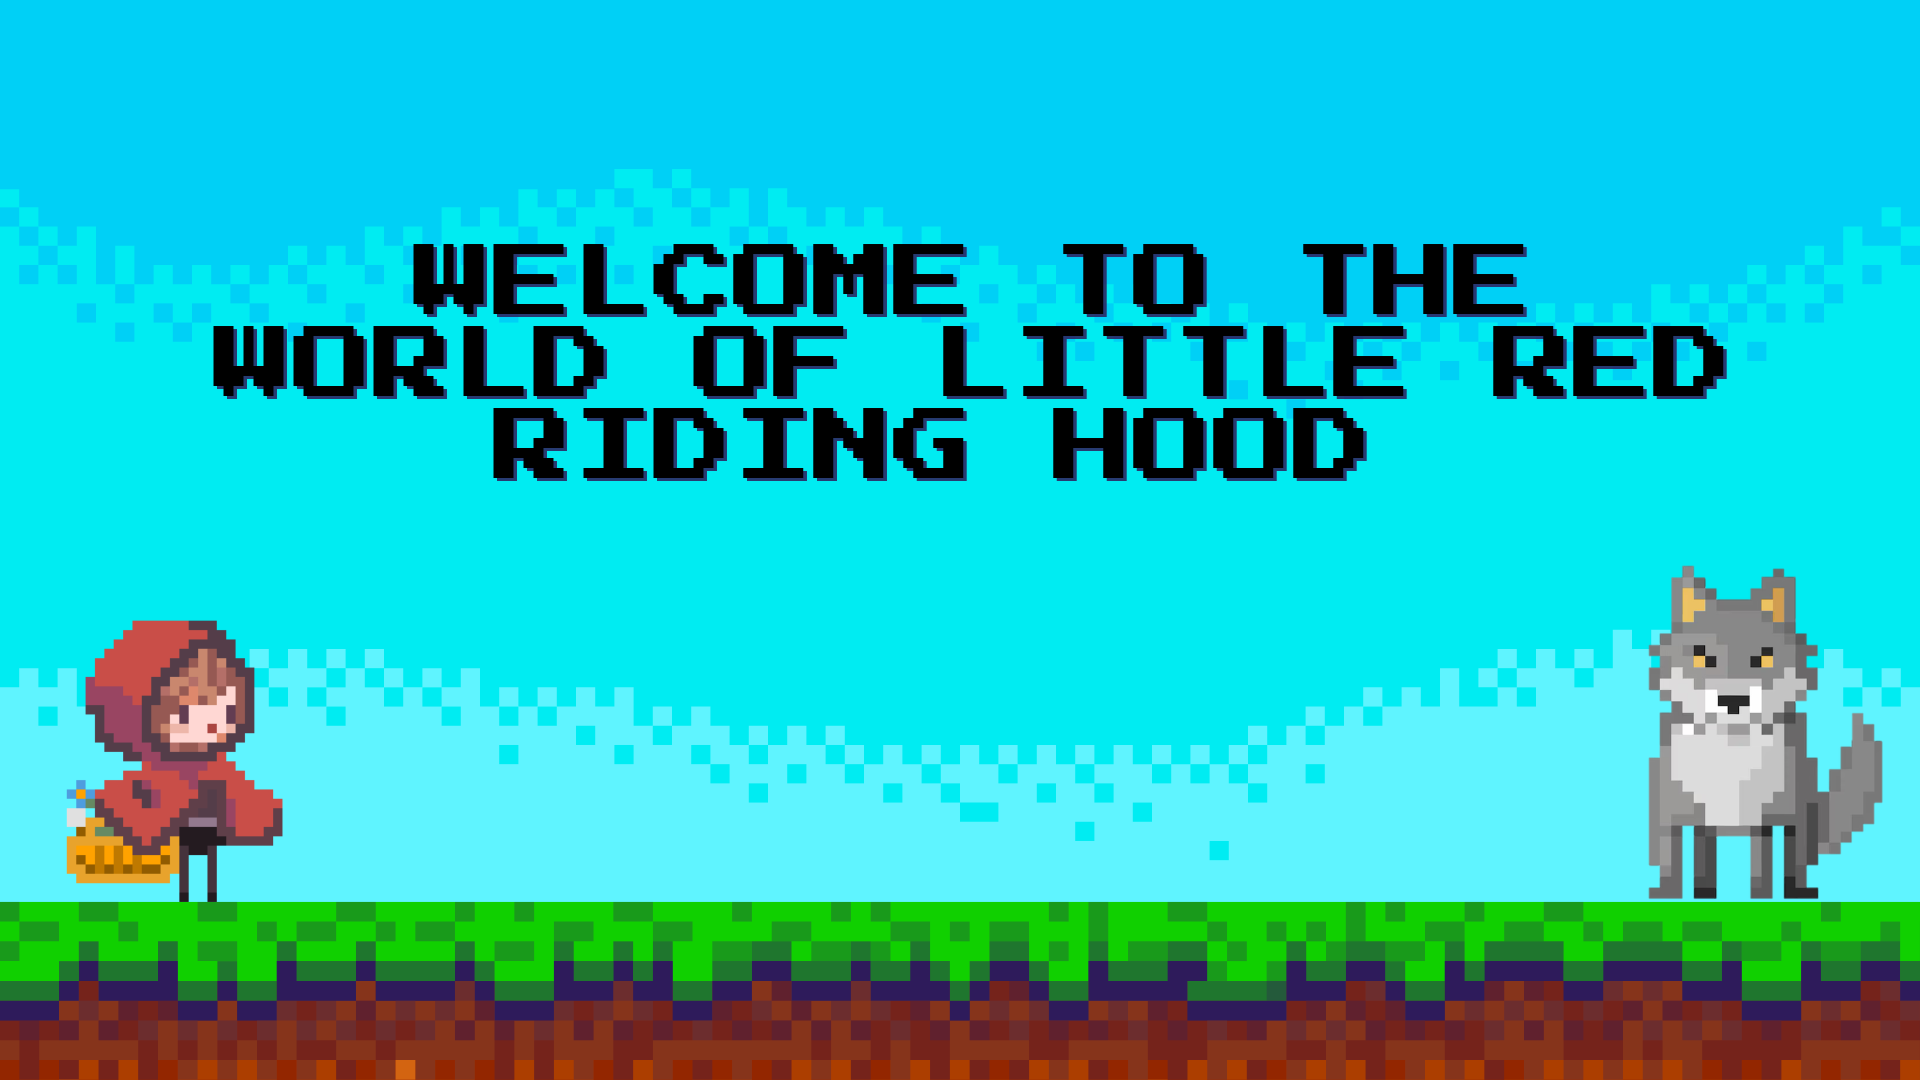
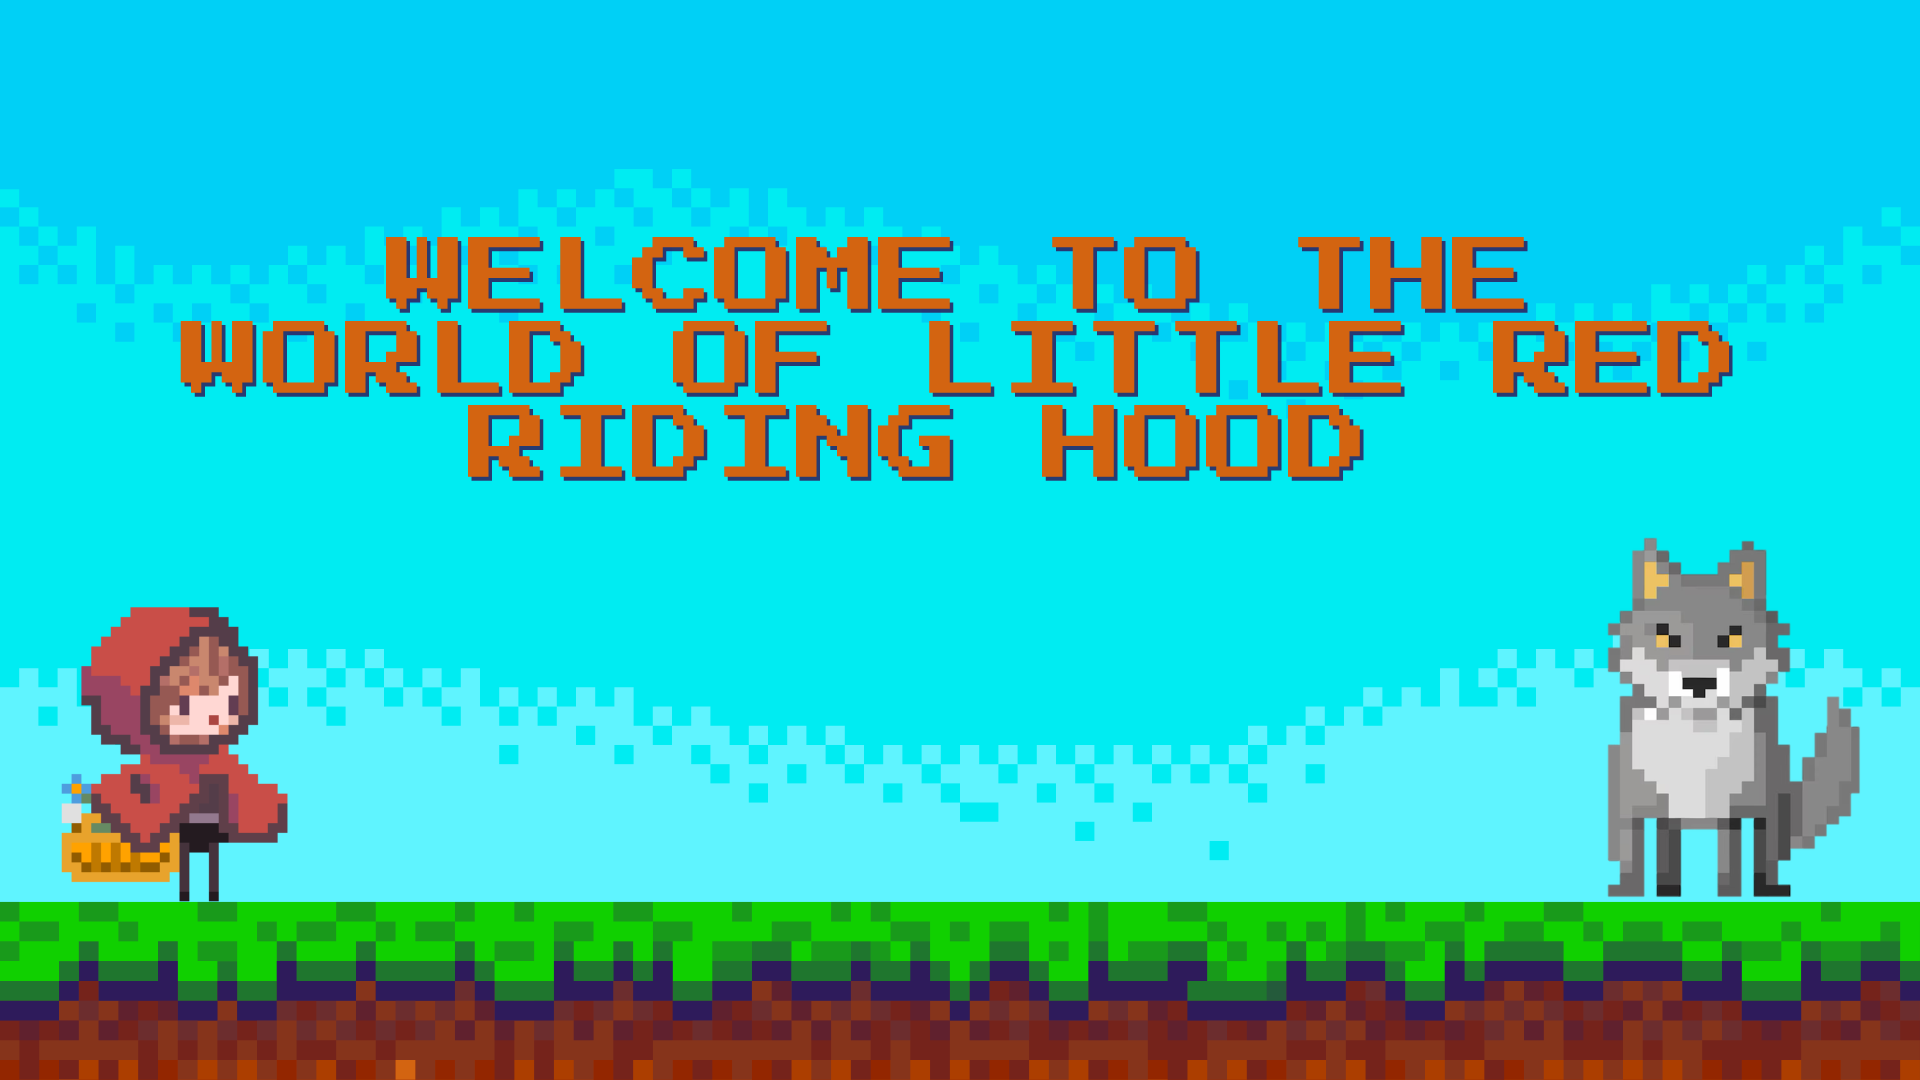
edit

Changed region(s): [[0.0938, 0.2139, 0.9062, 0.4583], [0.8125, 0.4889, 1.0, 0.8556], [0.0312, 0.55, 0.1562, 0.825]]

diff --git a/pygame_demo/main.py b/pygame_demo/main.py
@@ -20,7 +20,7 @@ pygame.display.set_caption("NPC Chat Demo")
 
 
 #load intro background image
-intro_background = pygame.image.load("pygame_demo/assets/intro_background.png")
+intro_background = pygame.image.load("pygame_demo/assets/intro-no-word.png")
 intro_background = pygame.transform.scale(intro_background, (1000, 500))
 
 #load world background image
@@ -74,7 +74,7 @@ white = (255, 255, 255)
 #default font for displaying text
 font = pygame.font.Font(None, 36)
 # Font path for the pixaleted text
-FONT_FILE = "PressStart2P-Regular.ttf"
+# FONT_FILE = "PressStart2P-Regular.ttf"
 #clock for controlling frame rate (i.e. how fast the game loop runs)
 clock = pygame.time.Clock()
 
@@ -91,8 +91,8 @@ player_input = ""
 #------------
 # functions
 #------------
-def get_pixelated_font(size):
-    return pygame.font.Font(FONT_FILE, size)
+#def get_pixelated_font(size):
+    #return pygame.font.Font(FONT_FILE, size)
 
 def handle_player_movement(keys):
     if keys[pygame.K_LEFT]:
@@ -219,33 +219,18 @@ while running:
         # draw intro screen with title
         screen.blit(intro_background, (0, 0))  # background first
         
-        title = get_pixelated_font(40).render("Welcome to the world of\nLittle Red Riding Hood!", True, (211, 100, 17))
-        title_rect = title.get_rect(center=(screen.get_width()//2, screen.get_height()//2 - 100))
+        #title = get_pixelated_font(40).render("Welcome to the world of\nLittle Red Riding Hood!", True, (211, 100, 17))
+        #title_rect = title.get_rect(center=(screen.get_width()//2, screen.get_height()//2 - 100))
 
         #add bounce timing
         bounce_offset = math.sin(pygame.time.get_ticks() * 0.005) * 8
 
         # draw instructions below title
         instructions = font.render("Press ENTER to start.", False, black)
-        instructions_rect = instructions.get_rect(center=(screen.get_width()//2, screen.get_height()//2 + 50 + bounce_offset))
+        instructions_rect = instructions.get_rect(center=(screen.get_width()//2, screen.get_height()//2 + 80 + bounce_offset))
         
-        screen.blit(title, title_rect)
+       #screen.blit(title, title_rect)
         screen.blit(instructions, instructions_rect)
-
-
-        #from previous code
-
-        # draw intro screen with title
-        #screen.fill(black)
-    
-        #title = font.render("Welcome to the world of Little Red Riding Hood!", True, white)
-        #title_rect = title.get_rect(center=(screen.get_width()//2, screen.get_height()//2))
-        
-        # draw instructions below title
-        #instructions = font.render("Press ENTER to start.", True, white)
-        #instructions_rect = instructions.get_rect(center=(screen.get_width()//2, screen.get_height()//2 + 50))
-        #screen.blit(title, title_rect)
-        #screen.blit(instructions, instructions_rect)
 
         
     if game_state == "world":
